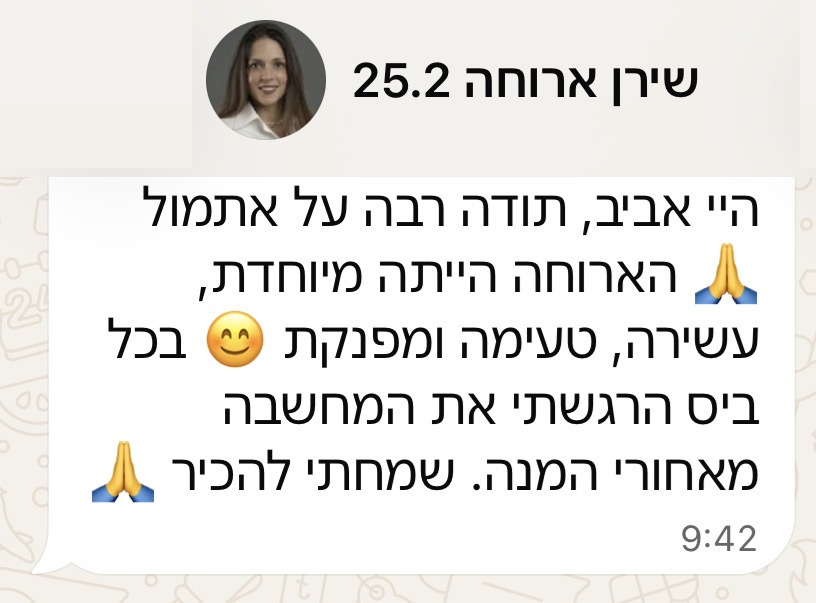
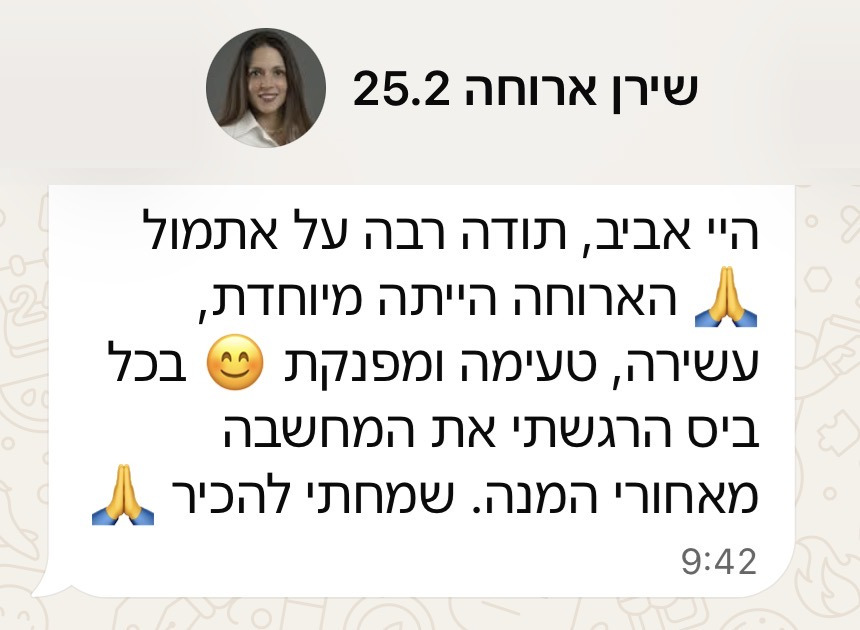
Replace shiran's WhatsApp card with a fuller screenshot
The new capture keeps the bubble intact; header chrome is removed with the
fill sampled beside each edge so no seam shows.

diff --git a/src/lib/content.ts b/src/lib/content.ts
@@ -221,7 +221,7 @@ export const reviewCards: ReviewCard[] = [
     alt: "הודעת וואטסאפ משירן: הארוחה הייתה מיוחדת, עשירה, טעימה ומפנקת",
     transcript:
       "היי אביב, תודה רבה על אתמול. הארוחה הייתה מיוחדת, עשירה, טעימה ומפנקת. בכל ביס הרגשתי את המחשבה מאחורי המנה. שמחתי להכיר.",
-    desktop: { src: "/reviews/chat/shiran-wa.jpg", width: 816, height: 603 },
+    desktop: { src: "/reviews/chat/shiran-wa.jpg", width: 860, height: 630 },
   },
 ];
 
